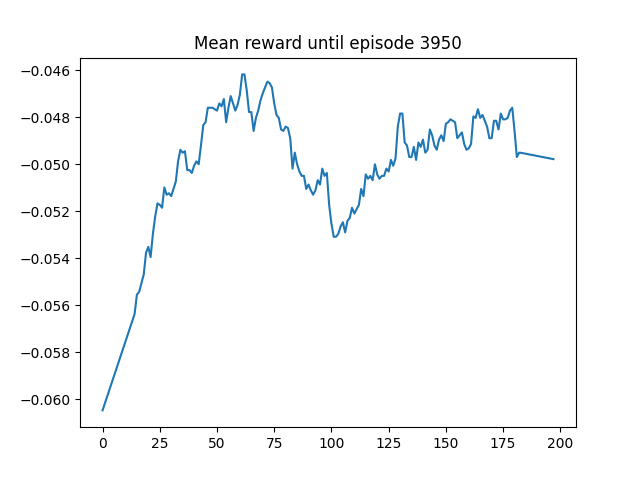
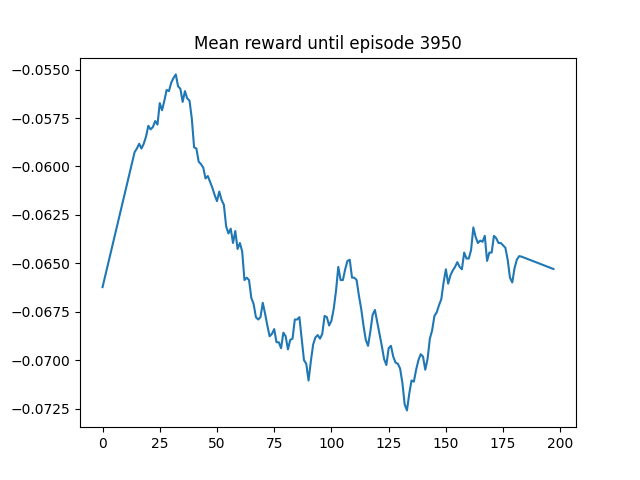
change some parameters

diff --git a/quick-rl.py b/quick-rl.py
@@ -289,15 +289,17 @@ def run_RL(k_neighbors = 8, lr = 3e-1, batch_size = 32, start_epsilon = 0.2):
 
     # separate into train and test randomly
     train, test = train_test_split(df_complete, test_size=1-train_size, random_state=32)
-    number_of_people = train.shape[0]
+    # separate train into train_probs and train_rl
+    train_probs, train_rl = train_test_split(train, test_size=0.5, random_state=32)
+    number_of_people = train_rl.shape[0]
 
     # train a KNNImputer on train
     imputer = KNNImputer(n_neighbors=k_neighbors)
-    imputer.fit(train.to_numpy())
+    imputer.fit(train_probs.to_numpy())
 
 
     # test error using a greedy 0 policy
-    error_greedy = greedy_0(imputer, train, T_questions)
+    error_greedy = greedy_0(imputer, test, T_questions)
 
 
     verbose = False
@@ -312,12 +314,11 @@ def run_RL(k_neighbors = 8, lr = 3e-1, batch_size = 32, start_epsilon = 0.2):
     target_network.load_state_dict(agent.state_dict())
 
     #setup some parameters for training
-    timesteps_per_epoch = 10
-    # batch_size = 32
+    timesteps_per_epoch = 1
     total_steps = 5 * 10**4
 
     # number of episodes
-    episodes = 4000
+    episodes = int(5*10**4)
 
 
     #init Optimizer
@@ -325,13 +326,13 @@ def run_RL(k_neighbors = 8, lr = 3e-1, batch_size = 32, start_epsilon = 0.2):
 
     # set exploration epsilon 
     # start_epsilon = 0.4
-    end_epsilon = 0.01
+    end_epsilon = 0.05
     eps_decay_final_step = int(episodes/2)
 
     # setup spme frequency for loggind and updating target network
     # I'm not super sure what these are for
     loss_freq = 20
-    refresh_target_network_freq = 50
+    refresh_target_network_freq = 500 ## MAYBE CHANGE THIS ONE (TO LESS FREQUENTLY)
     initial_buffer_size = 1000
     max_buffer_size = 1100
     # eval_freq = 1000
@@ -354,7 +355,7 @@ def run_RL(k_neighbors = 8, lr = 3e-1, batch_size = 32, start_epsilon = 0.2):
     next_s_batch = []
     done_batch = []
     for _ in range(initial_buffer_size):
-        real_s = train.sample().values[0]
+        real_s = train_rl.sample().values[0]
         s = np.nan*np.ones(N_questions)
         answered = np.zeros(N_questions)
         state = np.concatenate([imputer.transform(np.array([s]))[0], answered])
@@ -424,7 +425,7 @@ def run_RL(k_neighbors = 8, lr = 3e-1, batch_size = 32, start_epsilon = 0.2):
             # s_p = imputer.transform(np.array([s]))[0]
 
             # real_s is one random person from training
-            real_s = train.sample().values[0]
+            real_s = train_rl.sample().values[0]
 
             # done flag
             done = False
@@ -544,9 +545,9 @@ def run_RL(k_neighbors = 8, lr = 3e-1, batch_size = 32, start_epsilon = 0.2):
         if ep % refresh_target_network_freq == 0:
             # iterate train
             error = 0
-            for person_i in range(train.shape[0]):
+            for person_i in range(test.shape[0]):
                 if verbose2: print(f'Persona {person_i}')
-                real_s_i = train.iloc[person_i].values
+                real_s_i = test.iloc[person_i].values
                 s_i = np.nan*np.ones(N_questions)
                 answered_i = np.zeros(N_questions)
                 state_i = np.concatenate([imputer.transform(np.array([s_i]))[0], answered_i])
@@ -619,7 +620,7 @@ def run_RL(k_neighbors = 8, lr = 3e-1, batch_size = 32, start_epsilon = 0.2):
             plt.ylabel('Mean reward')
 
             # name file with parameters
-            plt.savefig(f'output/error_list_E{episodes}_M{T_questions}_N{N_questions}_ts{train_size}_lr{lr}_batch_size{batch_size}_epsilon{start_epsilon}_kneigh{k_neighbors}.png')
+            plt.savefig(f'output/error_list_E{episodes}_M{T_questions}_N{N_questions}_ts{train_size}_lr{lr}_batch_size{batch_size}_epsilon{start_epsilon}_kneigh{k_neighbors}_refresh{refresh_target_network_freq}.png')
             plt.close()
 
         # 
@@ -650,17 +651,17 @@ def run_RL(k_neighbors = 8, lr = 3e-1, batch_size = 32, start_epsilon = 0.2):
 
 def main():
 
-    parallel = True
+    parallel = False
 
     # parameter grid
     # param_grid = {'k_neighbors': [8, 10, 12], 
     #               'lr': [1e-1, 3e-1, 5e-1], 
     #               'batch_size': [32, 64], 
     #               'start_epsilon': [0.1, 0.4, 0.6]}
-    param_grid = {'k_neighbors': [7], 
-                  'lr': [1e-3, 1e-4,5e-5],
-                  'batch_size': [32, 64],
-                  'start_epsilon': [0.4,0.6]}
+    param_grid = {'k_neighbors': [20], 
+                  'lr': [1e-4],
+                  'batch_size': [32],
+                  'start_epsilon': [0.4]}
 
 
     # for storing results
@@ -694,7 +695,7 @@ def main():
     # save results
     results_df = pandas.DataFrame(results)
 
-    results_df.to_csv('output/results.csv')
+    # results_df.to_csv('output/results.csv')
 
 
         

diff --git a/Agents.py b/Agents.py
@@ -201,13 +201,13 @@ class DQNAgent(nn.Module):
         # self.network.add_module('relu3', nn.ReLU())
         # self.network.add_module('layer4', nn.Linear(64, n_actions))
         self.network = nn.Sequential()
-        self.network.add_module('layer1', nn.Linear(state_dim, int(state_dim)))
-        self.network.add_module('relu3', nn.ReLU())
-        self.network.add_module('layer1', nn.Linear(state_dim, int(state_dim)))
-        self.network.add_module('relu3', nn.ReLU())
+        self.network.add_module('layer1', nn.Linear(state_dim, 2*int(state_dim)))
+        self.network.add_module('relu1', nn.ReLU())
+        self.network.add_module('layer2', nn.Linear(2*int(state_dim), 2*int(state_dim)))
+        self.network.add_module('relu2', nn.ReLU())
         # self.network.add_module('layer2', nn.Linear(50, 50))
         # self.network.add_module('relu3', nn.ReLU())
-        self.network.add_module('layer4', nn.Linear(int(state_dim), n_actions))
+        self.network.add_module('layer3', nn.Linear(2*int(state_dim), n_actions))
         # 
         self.parameters = self.network.parameters
         
